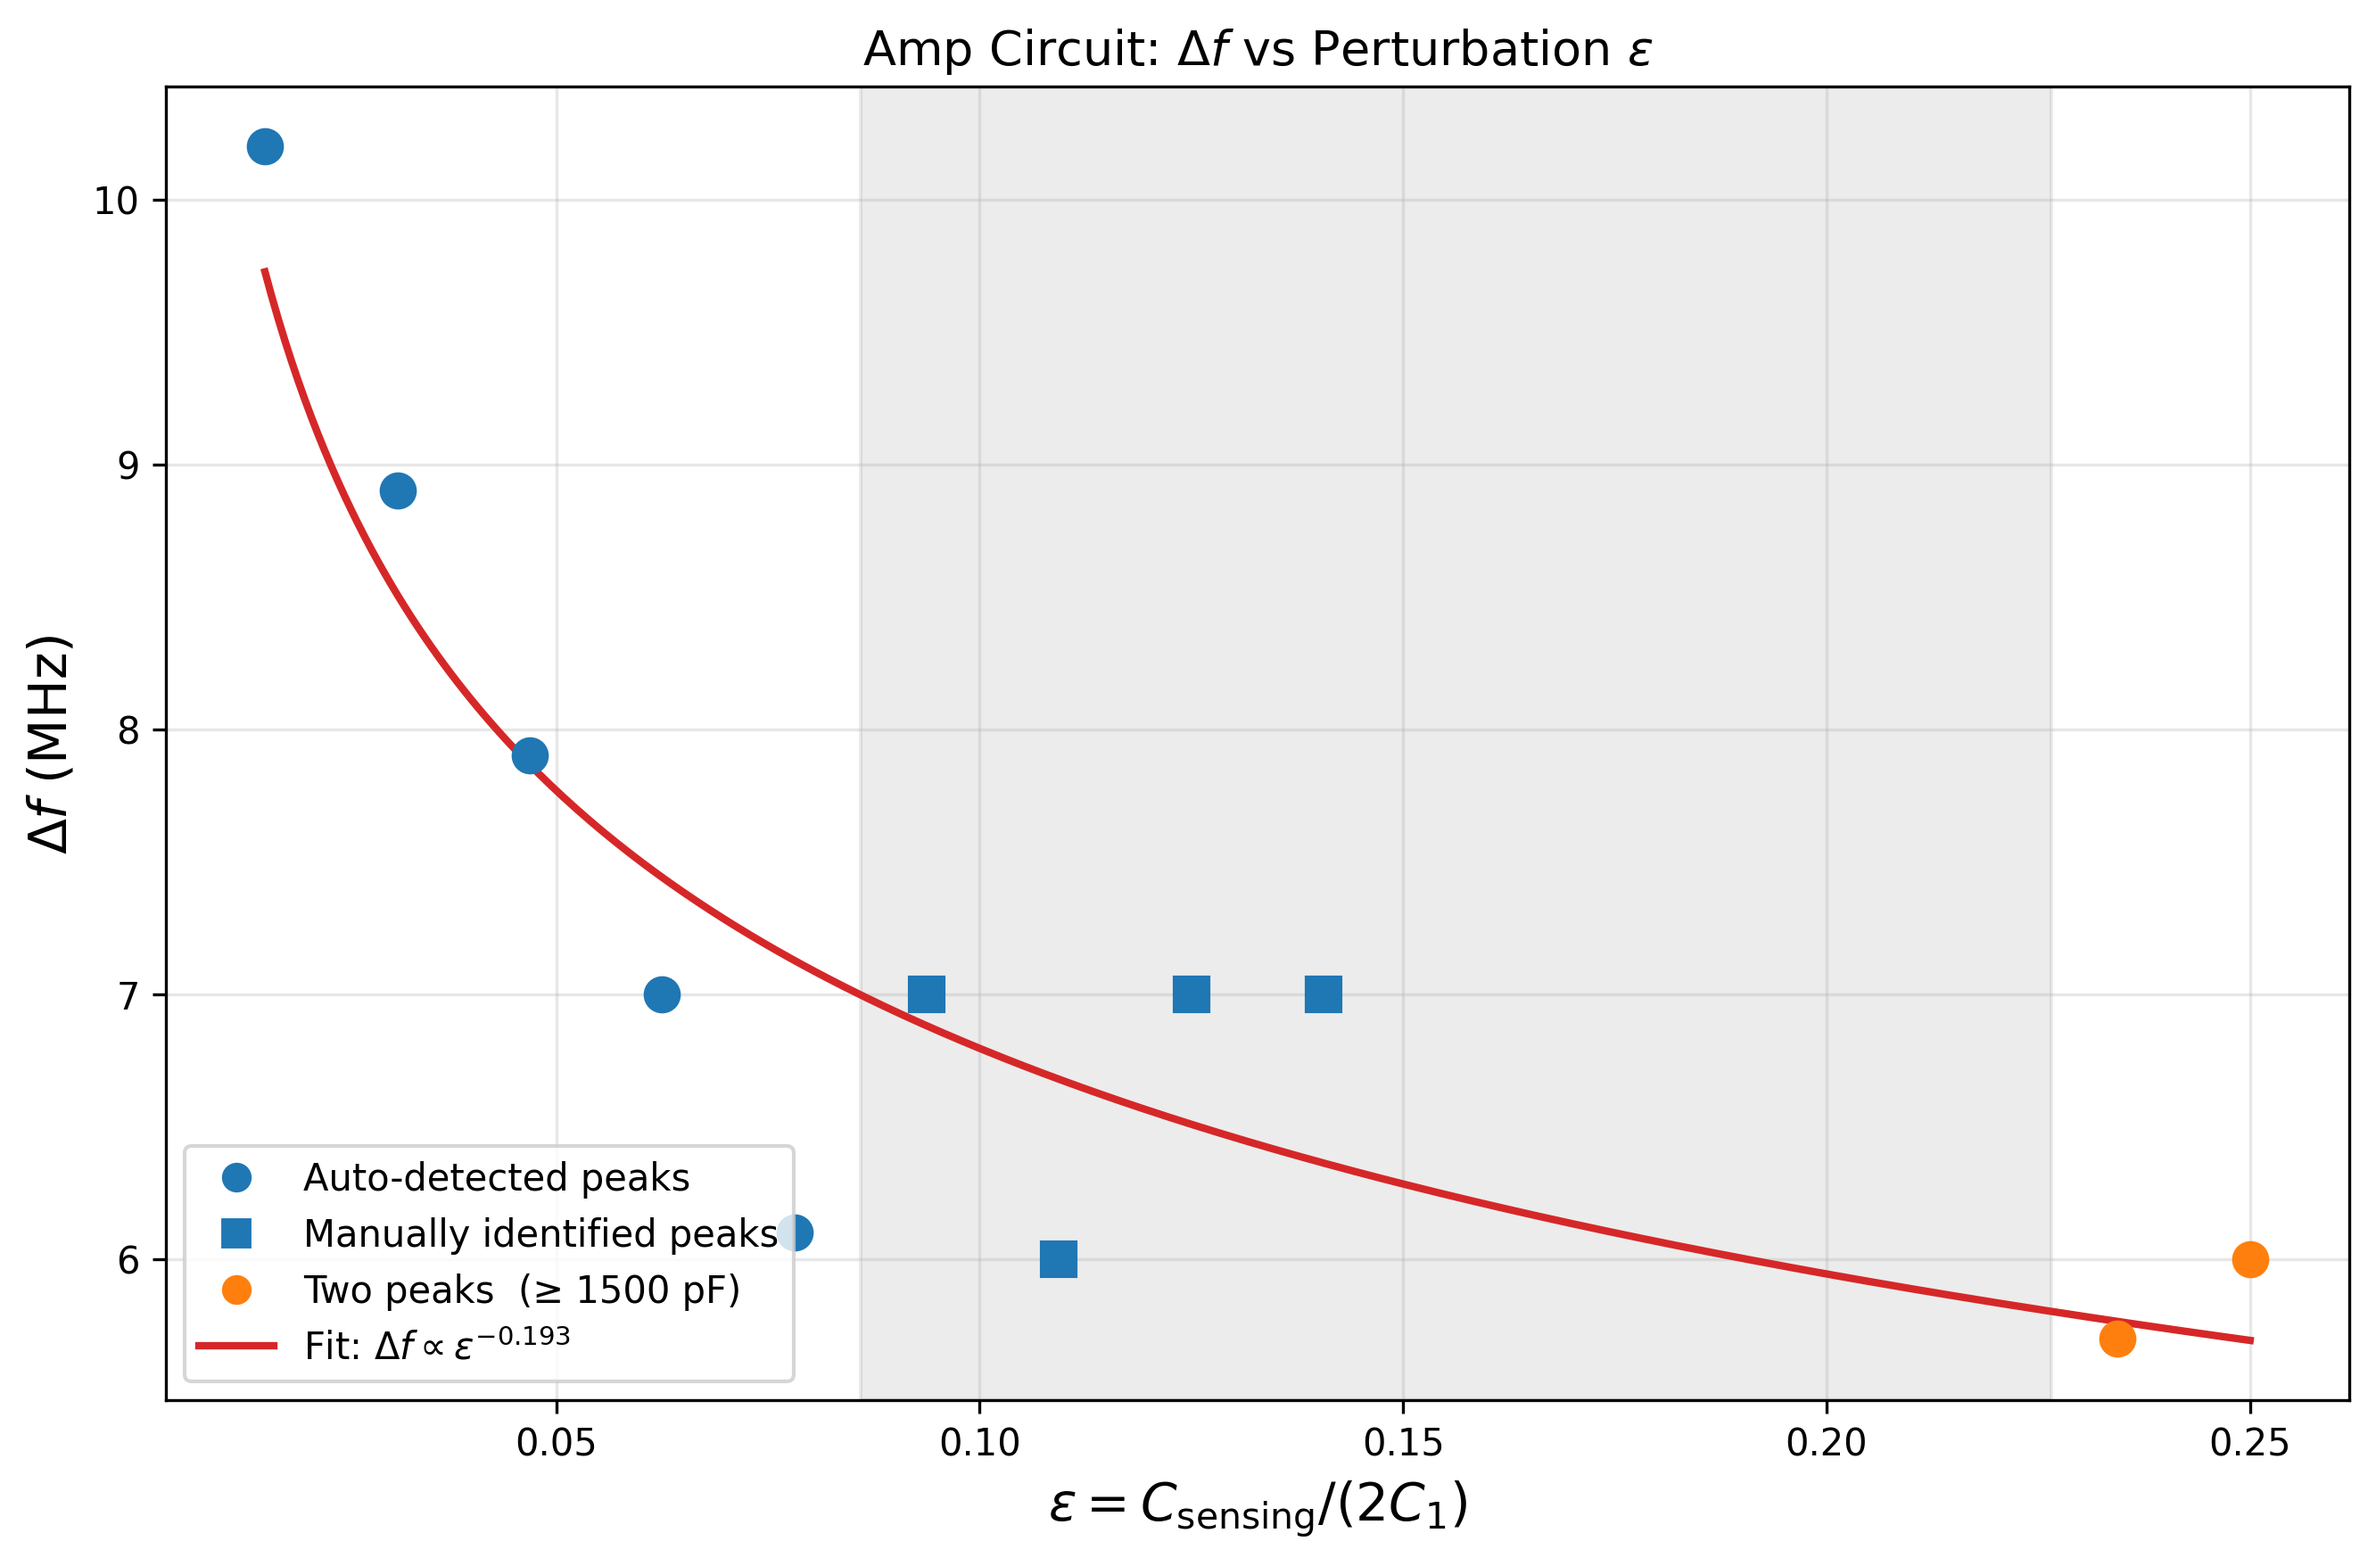
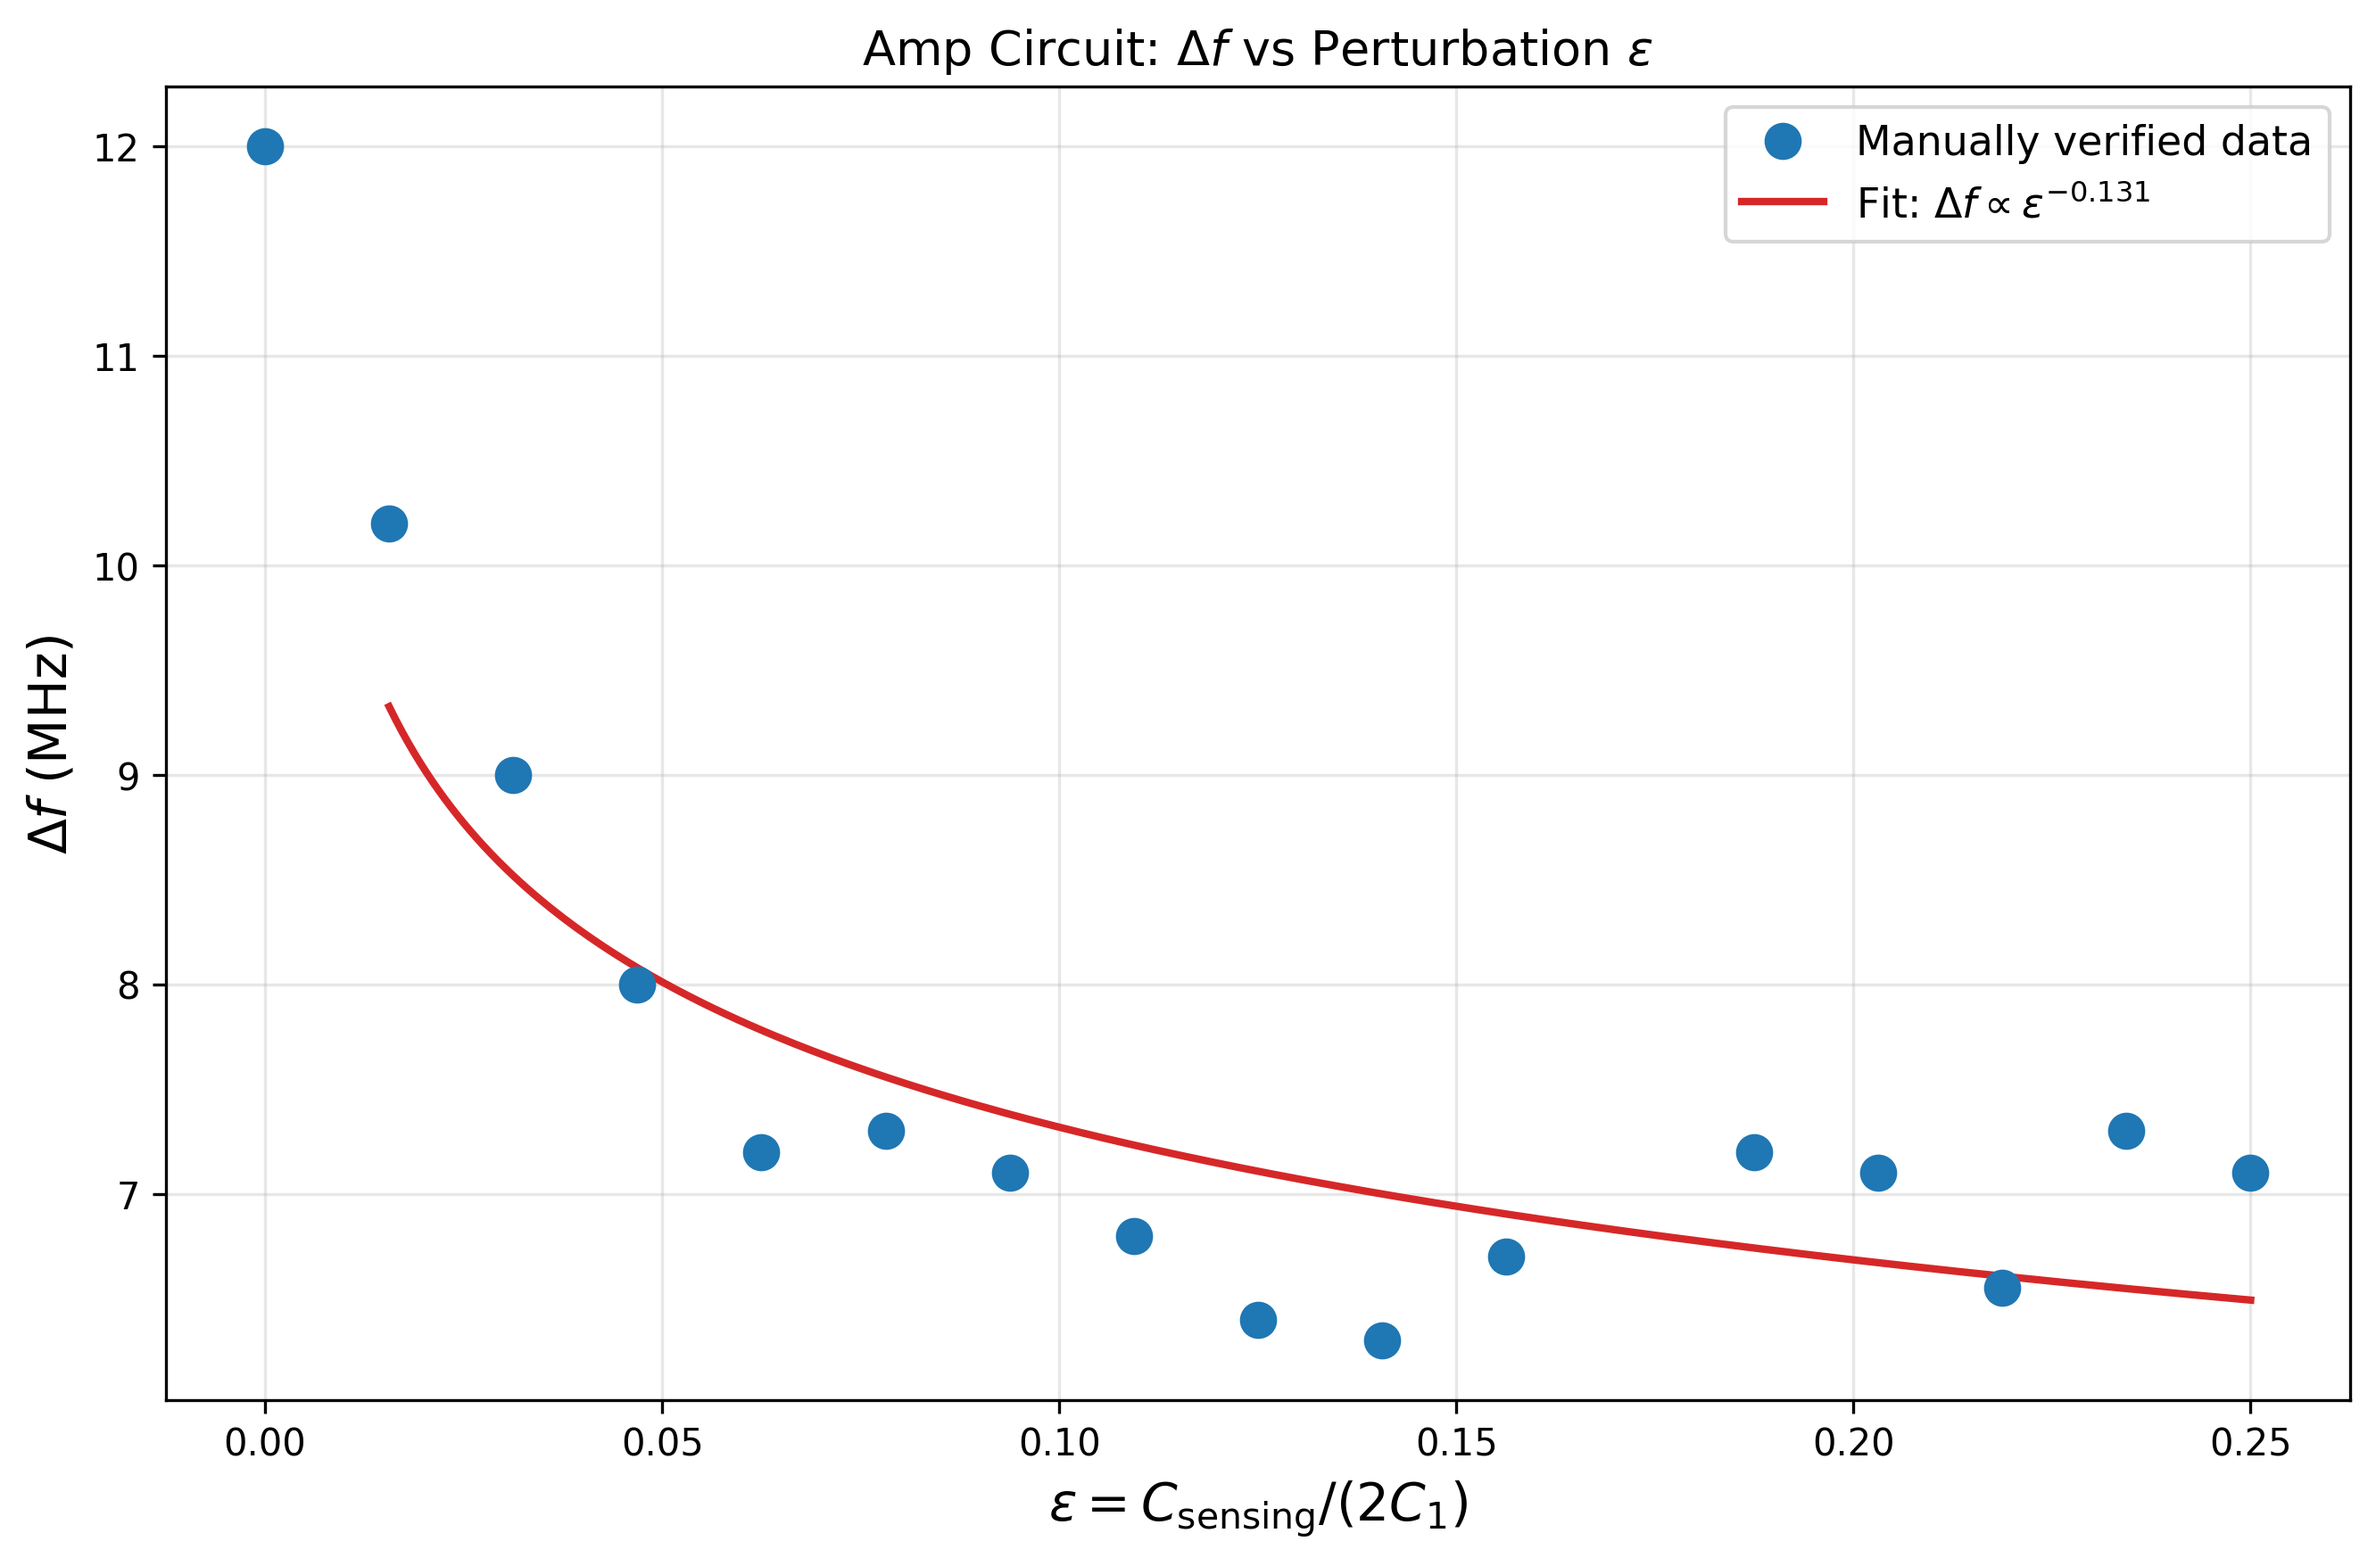
Update plots with all manually verified peak data (0-1600 pF)
Replace auto-detected peaks with user-verified values for all
Csensing values. Adds Csensing=0 baseline point. Removes EP-region
shading (all traces now have two peaks). Updated slope = -0.131.

https://claude.ai/code/session_01KGmhXano3uH9H8M19nEEQN

diff --git a/src/amp_circ_analysis.py b/src/amp_circ_analysis.py
@@ -24,13 +24,27 @@ OUTPUT_DIR  = Path('output')
 FREQ_RANGE  = (5, 40)   # MHz — search window for peaks
 C1_PF       = 3200.0    # Left tank capacitor (pF)
 
-# Manually identified peaks (MHz) for traces where auto-detection fails
-# Format: Csensing_pF -> (f1_MHz, f2_MHz)
+# Manually verified peak frequencies (MHz) for all Csensing values.
+# Format: Csensing_pF -> (f1_MHz, f2_MHz)  [values given in GHz, converted ×1000]
+# Note: Csensing=0 has ε=0 — included in linear plot only (excluded from log-log)
+# Note: Csensing=1100 not available
 MANUAL_OVERRIDES = {
-    600:  (19.0, 26.0),
-    700:  (19.0, 25.0),
-    800:  (18.0, 25.0),
-    900:  (17.0, 24.0),
+    0:    (20.0,  32.0),
+    100:  (20.0,  30.2),
+    200:  (20.0,  29.0),
+    300:  (19.9,  27.9),
+    400:  (19.8,  27.0),
+    500:  (19.0,  26.3),
+    600:  (18.6,  25.7),
+    700:  (18.4,  25.2),
+    800:  (18.3,  24.7),
+    900:  (18.0,  24.3),
+    1000: (17.5,  24.2),
+    1200: (16.4,  23.6),
+    1300: (16.4,  23.5),
+    1400: (16.65, 23.2),
+    1500: (15.9,  23.2),
+    1600: (15.7,  22.8),
 }
 
 
@@ -83,20 +97,23 @@ def main():
     freq_mhz, traces = load_data(DATA_FILE)
     print(f"  {len(traces)} traces, freq {freq_mhz[0]:.1f}–{freq_mhz[-1]:.1f} MHz")
 
-    # --- extract splitting for each Csensing ---
+    # --- extract splitting — manual overrides take priority over auto-detection ---
+    all_csensing = sorted(set(list(MANUAL_OVERRIDES.keys()) + list(traces.keys())))
     results = []
     skipped = []
-    for c_pf in sorted(traces):
+    for c_pf in all_csensing:
         if c_pf in MANUAL_OVERRIDES:
             f1, f2 = MANUAL_OVERRIDES[c_pf]
             src = 'manual'
-        else:
+        elif c_pf in traces:
             f1, f2 = find_two_peaks(freq_mhz, traces[c_pf])
             src = 'auto'
+        else:
+            continue
 
         if f1 is not None:
             delta_f = f2 - f1
-            epsilon = c_pf / (2.0 * C1_PF)
+            epsilon = c_pf / (2.0 * C1_PF)   # ε=0 when c_pf=0
             results.append({'Csensing_pF': c_pf, 'epsilon': epsilon,
                             'f1_MHz': f1, 'f2_MHz': f2,
                             'delta_f_MHz': delta_f, 'source': src})
@@ -112,11 +129,11 @@ def main():
 
     df = pd.DataFrame(results)
 
-    # --- log-log fit ---
+    # --- log-log fit (exclude ε=0) ---
     x = df['epsilon'].values.astype(float)
     y = df['delta_f_MHz'].values.astype(float)
 
-    valid = (x > 0) & (y > 0)
+    valid = (x > 0) & (y > 0)   # ε=0 (Csensing=0) excluded from log-log
     x_fit, y_fit = x[valid], y[valid]
 
     log_x = np.log10(x_fit)
@@ -130,32 +147,22 @@ def main():
     fig, ax = plt.subplots(figsize=(9, 6))
 
     for _, row in df.iterrows():
-        lx = np.log10(row['epsilon'])
-        ly = np.log10(row['delta_f_MHz'])
-        marker = 's' if row.get('source') == 'manual' else 'o'
-        color  = '#ff7f0e' if row['Csensing_pF'] >= 1500 else '#1f77b4'
-        ax.plot(lx, ly, marker, markersize=9, color=color, zorder=5)
+        if row['epsilon'] <= 0:
+            continue   # skip ε=0 on log-log
+        ax.plot(np.log10(row['epsilon']), np.log10(row['delta_f_MHz']),
+                'o', markersize=9, color='#1f77b4', zorder=5)
 
     ax.plot(log_x, fit_line, '-', color='#d62728', linewidth=2,
             label=f'Linear fit  (slope = {slope:.3f})')
 
-    # Shade EP region (600–1400 pF — single peak, coalesced modes)
-    ax.axvspan(np.log10(550), np.log10(1450), color='grey', alpha=0.15,
-               label='EP region (single peak, 600–1400 pF)')
-
-    # Legend proxies for the two data groups
     from matplotlib.lines import Line2D
     handles = [
         Line2D([0],[0], marker='o', color='w', markerfacecolor='#1f77b4',
-               markersize=9, label='Auto-detected peaks'),
-        Line2D([0],[0], marker='s', color='w', markerfacecolor='#1f77b4',
-               markersize=9, label='Manually identified peaks'),
-        Line2D([0],[0], marker='o', color='w', markerfacecolor='#ff7f0e',
-               markersize=9, label='Two peaks  (≥ 1500 pF)'),
+               markersize=9, label='Manually verified data'),
         Line2D([0],[0], color='#d62728', linewidth=2,
                label=f'Linear fit  (slope = {slope:.3f})'),
     ]
-    ax.legend(handles=handles, fontsize=10)
+    ax.legend(handles=handles, fontsize=11)
 
     ax.set_xlabel(r'$\log_{10}(\varepsilon)$  where  $\varepsilon = C_{\rm sensing}/(2C_1)$', fontsize=13)
     ax.set_ylabel(r'$\log_{10}(\Delta f\ [\rm MHz])$', fontsize=14)
@@ -179,35 +186,17 @@ def main():
 
     fig2, ax2 = plt.subplots(figsize=(9, 6))
 
-    for _, row in df.iterrows():
-        marker = 's' if row.get('source') == 'manual' else 'o'
-        color  = '#ff7f0e' if row['Csensing_pF'] >= 1500 else '#1f77b4'
-        ax2.plot(row['epsilon'], row['delta_f_MHz'],
-                 marker, markersize=9, color=color, zorder=5)
+    ax2.plot(df['epsilon'], df['delta_f_MHz'],
+             'o', markersize=9, color='#1f77b4', zorder=5,
+             label='Manually verified data')
 
-    # Power-law fit curve in linear space
+    # Power-law fit curve in linear space (skip ε=0 for fit)
     eps_range = np.linspace(x_fit.min(), x_fit.max(), 300)
-    df_fit = 10**(slope * np.log10(eps_range) + intercept)
-    ax2.plot(eps_range, df_fit, '-', color='#d62728', linewidth=2,
+    df_fit_curve = 10**(slope * np.log10(eps_range) + intercept)
+    ax2.plot(eps_range, df_fit_curve, '-', color='#d62728', linewidth=2,
              label=f'Fit: $\\Delta f \\propto \\varepsilon^{{{slope:.3f}}}$')
 
-    # Shade EP region
-    ep_lo = 550 / (2 * C1_PF)
-    ep_hi = 1450 / (2 * C1_PF)
-    ax2.axvspan(ep_lo, ep_hi, color='grey', alpha=0.15,
-                label='EP region (600–1400 pF)')
-
-    handles2 = [
-        _L2D([0],[0], marker='o', color='w', markerfacecolor='#1f77b4',
-             markersize=9, label='Auto-detected peaks'),
-        _L2D([0],[0], marker='s', color='w', markerfacecolor='#1f77b4',
-             markersize=9, label='Manually identified peaks'),
-        _L2D([0],[0], marker='o', color='w', markerfacecolor='#ff7f0e',
-             markersize=9, label='Two peaks  (≥ 1500 pF)'),
-        _L2D([0],[0], color='#d62728', linewidth=2,
-             label=f'Fit: $\\Delta f \\propto \\varepsilon^{{{slope:.3f}}}$'),
-    ]
-    ax2.legend(handles=handles2, fontsize=10)
+    ax2.legend(fontsize=11)
 
     ax2.set_xlabel(r'$\varepsilon = C_{\rm sensing}/(2C_1)$', fontsize=14)
     ax2.set_ylabel(r'$\Delta f$ (MHz)', fontsize=14)
